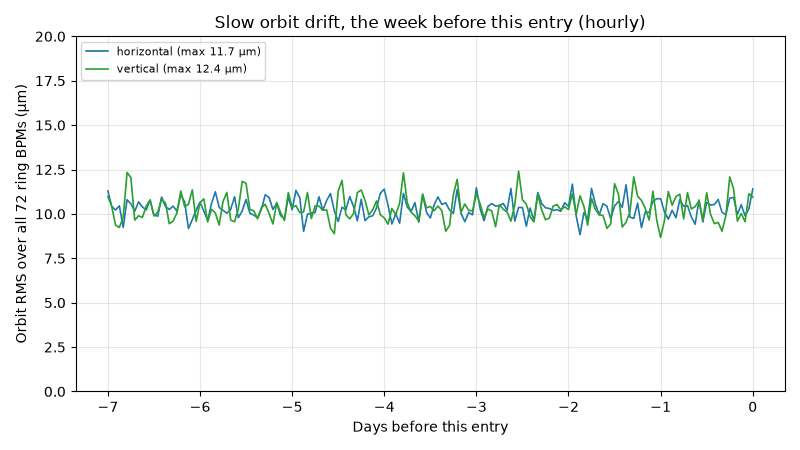
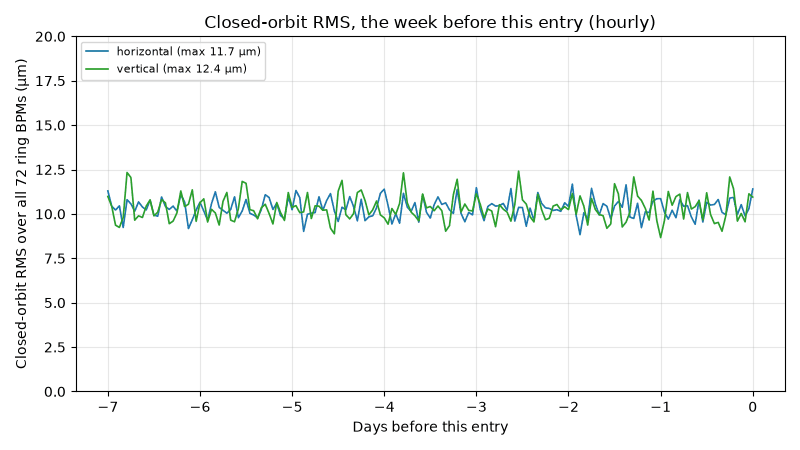
fix(sim): name the DEMO-011 picture for what it shows
The orbit feedback retune entry reports a stability improvement of 1.2 to
0.8 um, but its picture is the closed-orbit RMS over the 72 BPMs for the
week before the entry: flat at about 10 um, with no drift. The plot was
titled "Slow orbit drift", so the entry text and its picture named two
different quantities and the title promised a drift the trace does not
show.

The plot now says closed-orbit RMS in its title and axis label, and the
entry text names the attached trace and why it is flat: the retune targets
the fast beam motion, not the static orbit.

Changed region(s): [[0.0, 0.1244, 0.0312, 0.8089], [0.25, 0.0311, 0.8125, 0.0622]]

diff --git a/scripts/scenario_plots.py b/scripts/scenario_plots.py
@@ -357,8 +357,8 @@ def draw_orbit_rms(trend: Trend, path: Path) -> None:
         values = np.asarray(trend.series[plane])
         ax.plot(days, values, color=color, lw=1.2, label=f"{label} (max {values.max():.1f} µm)")
     ax.set_xlabel("Days before this entry")
-    ax.set_ylabel("Orbit RMS over all 72 ring BPMs (µm)")
-    ax.set_title("Slow orbit drift, the week before this entry (hourly)")
+    ax.set_ylabel("Closed-orbit RMS over all 72 ring BPMs (µm)")
+    ax.set_title("Closed-orbit RMS, the week before this entry (hourly)")
     ax.set_ylim(0.0, 20.0)
     ax.grid(alpha=0.3)
     ax.legend(loc="upper left", fontsize=8)
